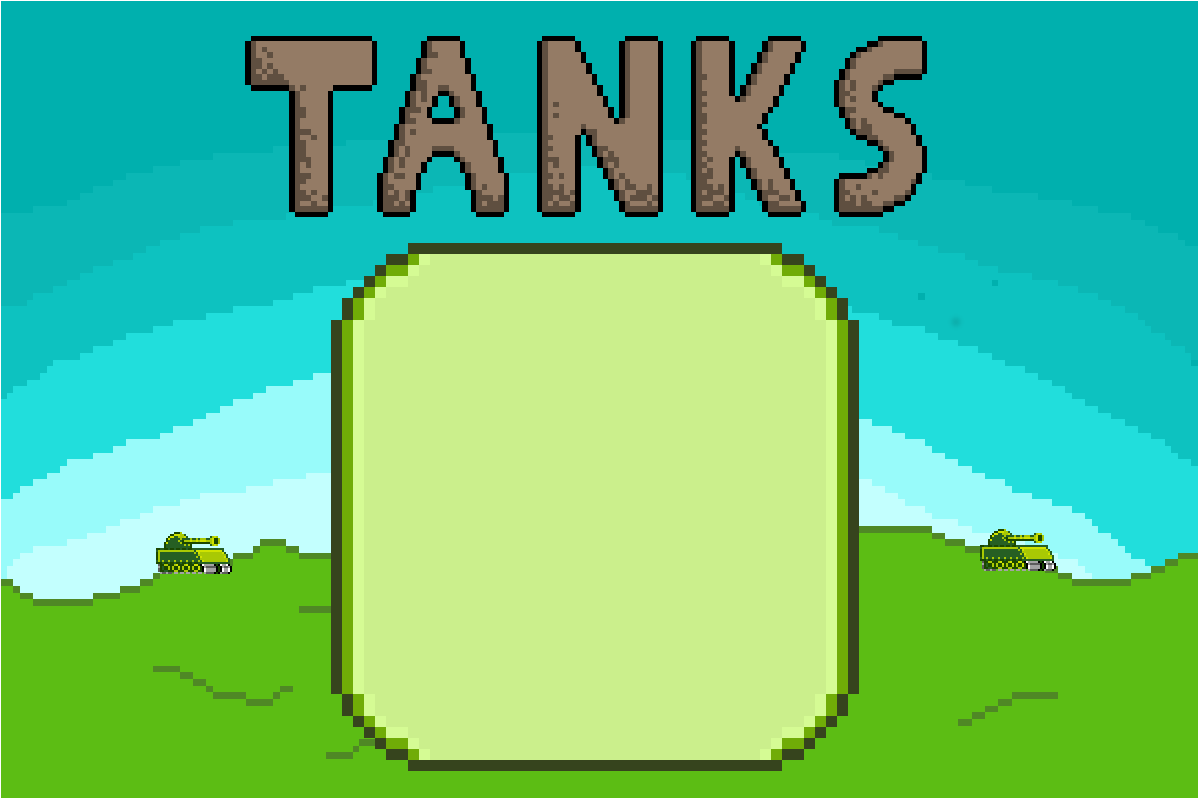
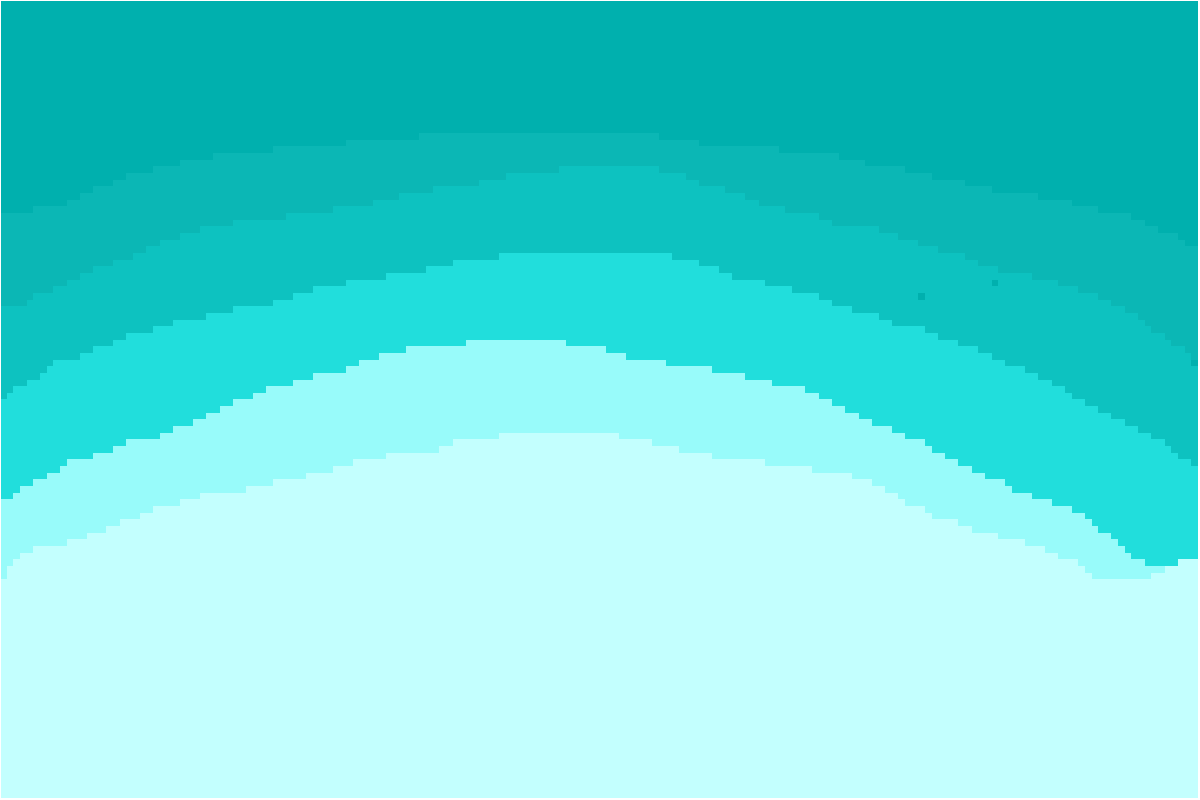
Pixel Background
Temporary

diff --git a/TANKS/src/classes/Main.java b/TANKS/src/classes/Main.java
@@ -272,7 +272,7 @@ public class Main extends Application {
     
     public void backGroundSetup(Pane pane){
         
-        BackgroundImage myBI= new BackgroundImage(new Image("Pictures/CloudBackground.JPG", width, height, false, true),
+        BackgroundImage myBI= new BackgroundImage(new Image("Pictures/Backgrounds/Background.png", width, height, false, true),
         BackgroundRepeat.NO_REPEAT, BackgroundRepeat.NO_REPEAT, BackgroundPosition.DEFAULT,
           BackgroundSize.DEFAULT);
        
